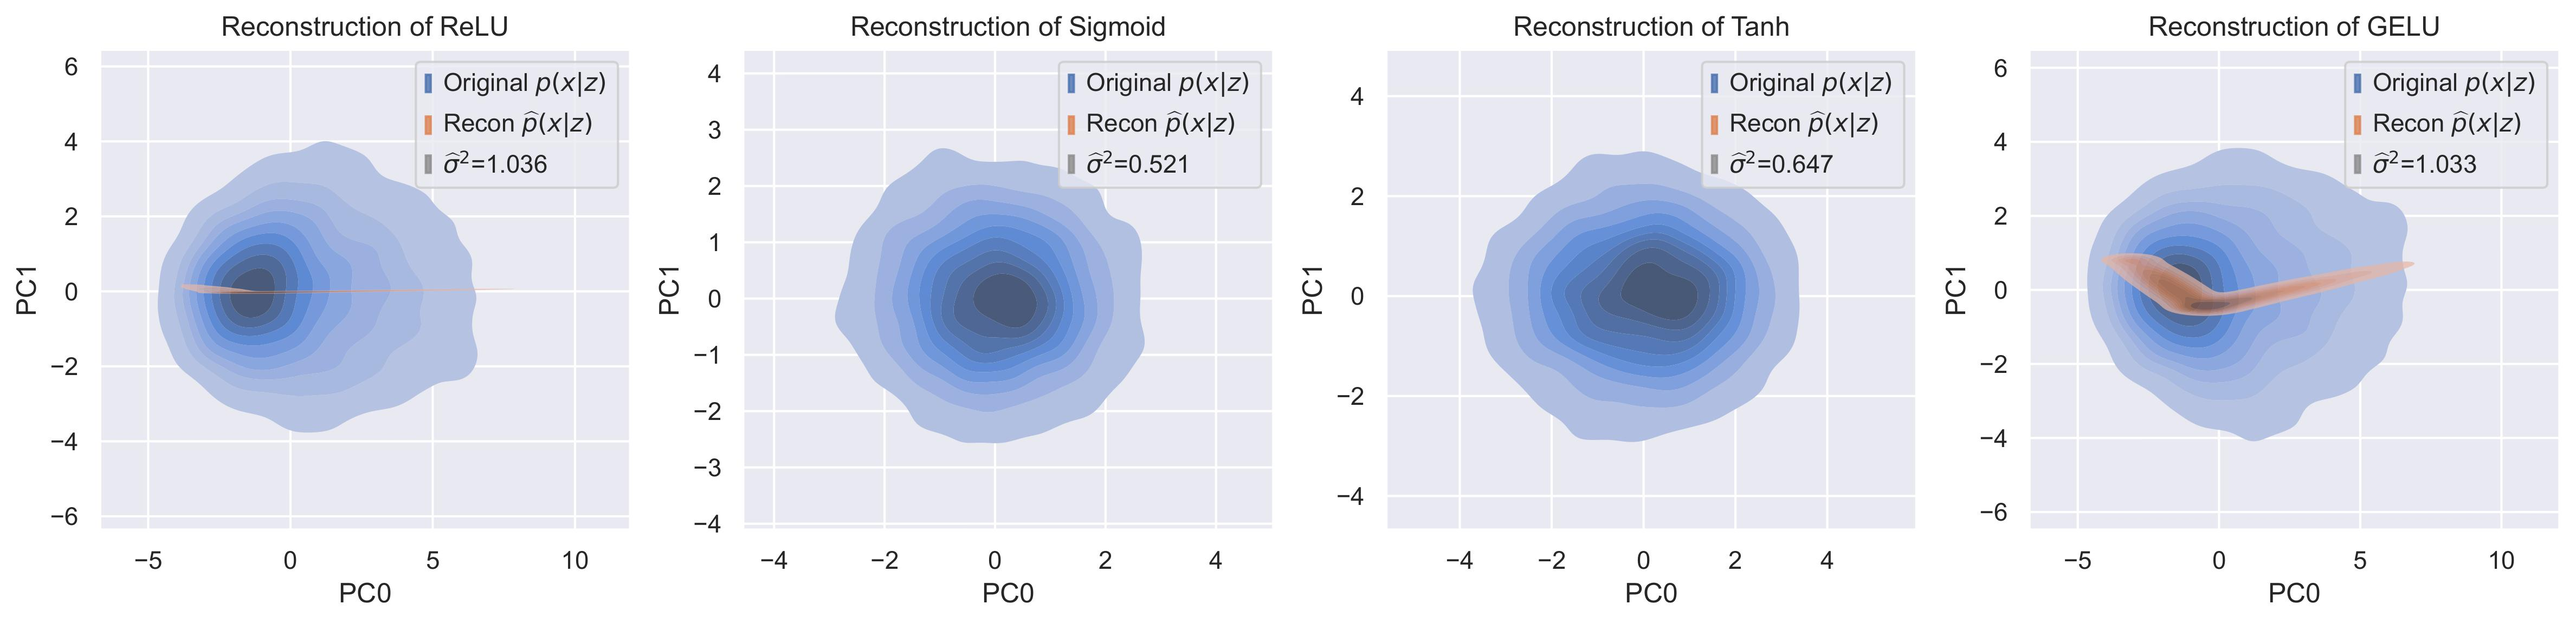
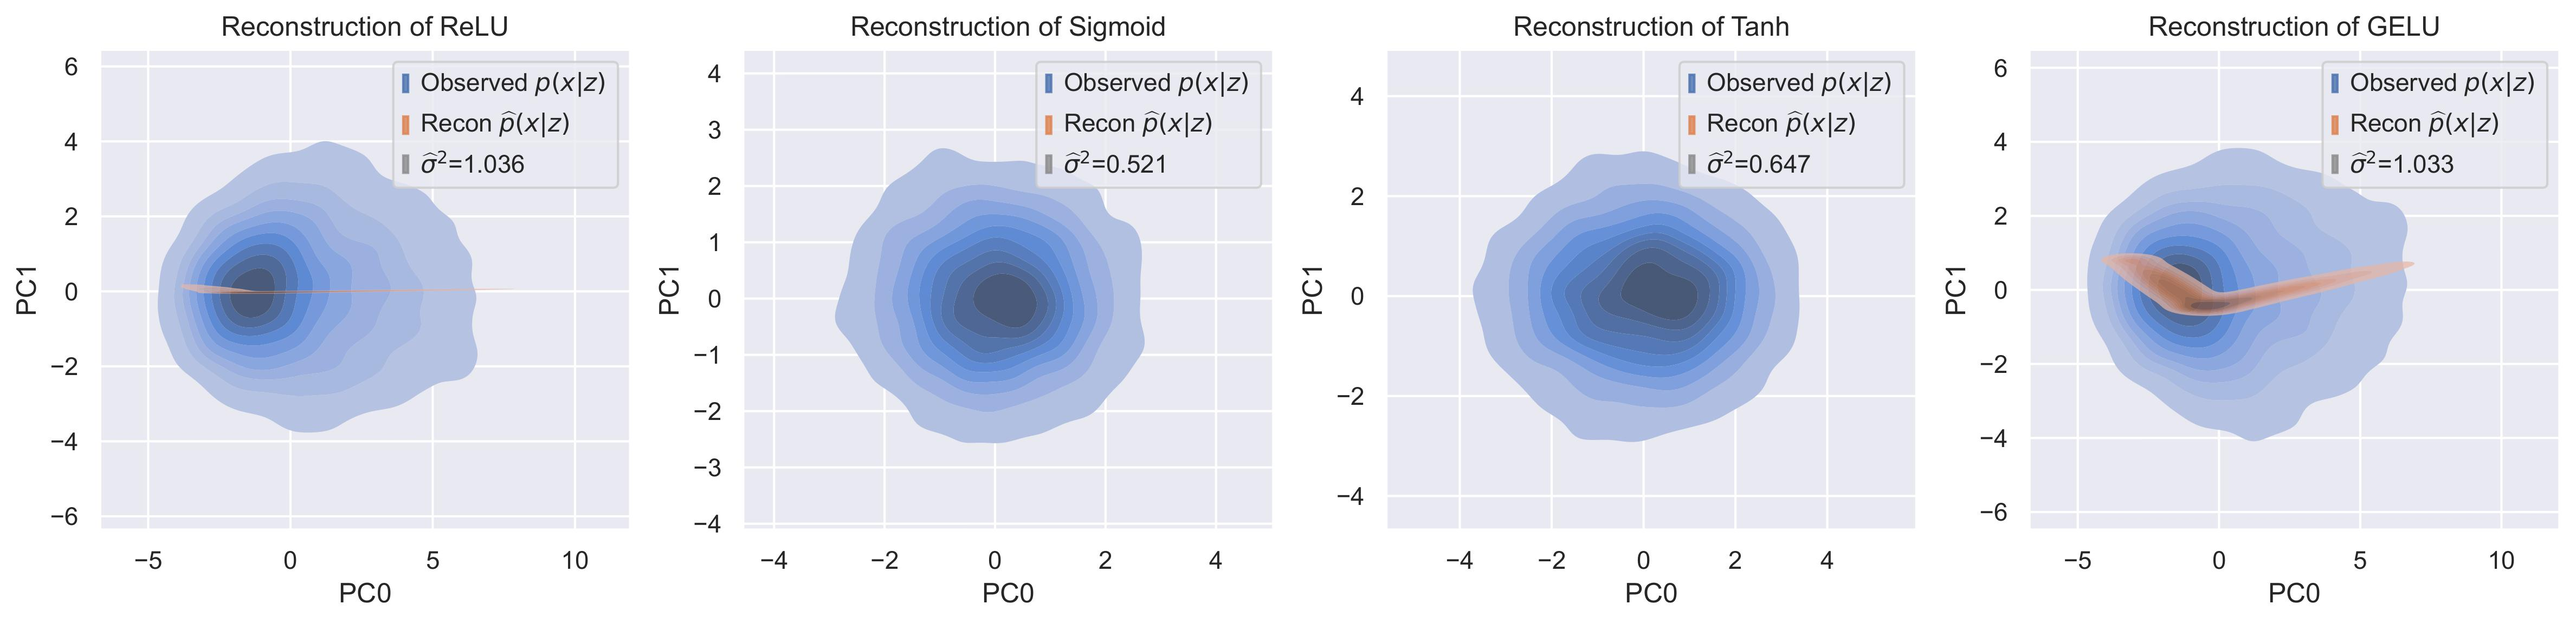
update

diff --git a/main.py b/main.py
@@ -62,10 +62,10 @@ def plot_vae(m, n, llh_method):
 
     # plot recon, latent and callback
     recon = plot_recon_2d(n)
-    latent = plot_latent_2d(n)
+    # latent = plot_latent_2d(n)
     callback = plot_callback(n, llh_method=llh_method)
     recon.savefig(os.path.join(figure_path, f"recon_m2_n{n}.pdf"), bbox_inches="tight")
-    latent.savefig(os.path.join(figure_path, f"latent_m2_n{n}.pdf"), bbox_inches="tight")
+    # latent.savefig(os.path.join(figure_path, f"latent_m2_n{n}.pdf"), bbox_inches="tight")
     callback.savefig(os.path.join(figure_path, f"callback_m2_n{n}_{llh_method}.pdf"), bbox_inches="tight")
 
 
@@ -75,4 +75,4 @@ if __name__ == "__main__":
     # run_vae(m=2, n=19, activation=nn.Sigmoid(), llh_method="mc")
     # run_vae(m=2, n=19, activation=nn.Tanh(), llh_method="mc")
     # run_vae(m=2, n=19, activation=nn.GELU(), llh_method="mc")
-    plot_vae(m=2, n=20, llh_method="mc")
+    plot_vae(m=2, n=19, llh_method="grid")

diff --git a/vae/recon.py b/vae/recon.py
@@ -35,7 +35,7 @@ def plot_recon_2d(n):
         sns.kdeplot(data=simu_2d_df, x="pc0", y="pc1", fill=True, alpha=1., ax=ax)
         sns.kdeplot(data=recon_2d_df, x="pc0", y="pc1", fill=True, alpha=.7, ax=ax)
         s2 = np.round(np.mean(np.exp(recon_df["logs2"])), 3)
-        ax_legend_true = mpatches.Patch(color=palette[0], label="Original $p(x|z)$", alpha=0.8)
+        ax_legend_true = mpatches.Patch(color=palette[0], label="Observed $p(x|z)$", alpha=0.8)
         ax_legend_recon = mpatches.Patch(color=palette[1], label="Recon $\widehat{p}(x|z)$", alpha=0.8)
         ax_legend_s2 = mpatches.Patch(color=palette[7], label="$\widehat{\sigma}^2$" + f"={s2}", alpha=0.8)
         handles = [ax_legend_true, ax_legend_recon, ax_legend_s2]
